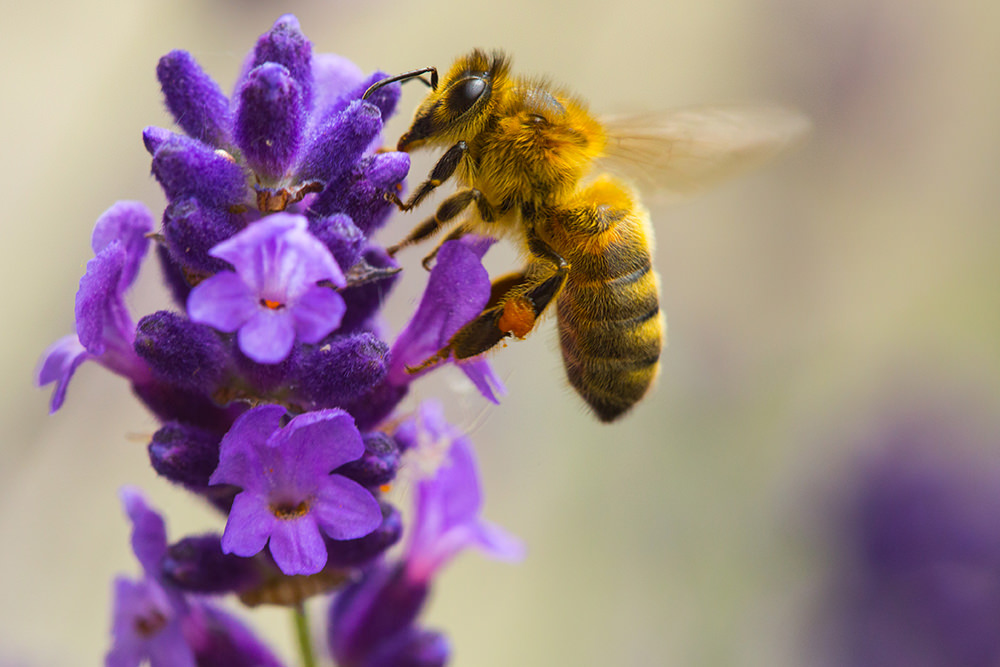
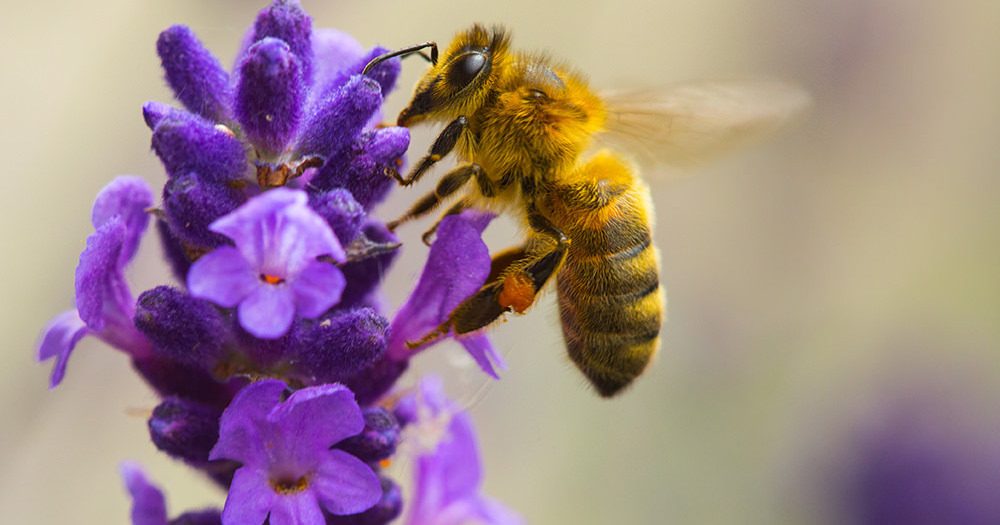
Fixed carousel width
but not height :(

diff --git a/index.html b/index.html
@@ -74,7 +74,7 @@
       </div>
     </div>
     <div class="item">
-      <img class="img-responsive center-block" src="Images/HoneybeeFlower2.jpg" alt="Third slide">
+      <img class="img-responsive center-block" src="Images/BeePollination.jpg" alt="Third slide">
         <div class="carousel-caption">
         <h3>Third Slide</h3>
       </div>
@@ -127,8 +127,6 @@
 </div>
 </div>
 </section>
-
-
 
 
 <section id="contact" class="contact">
@@ -208,6 +206,9 @@ $(document).ready(function(){
   });
 });
 </script>
+
+
+
 
 </body>
 </html>

diff --git a/main.css b/main.css
@@ -98,9 +98,9 @@ a.nav-active {
 
 .carousel-inner>.item>img, .carousel-inner>.item>a>img {
 display: block;
-max-height: 700px;
+width: 100%;
 line-height: 1;
-width: auto; 
+ 
 
 text-align: center;
 .carousel-item {
